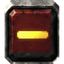
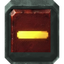
Launcher: the PLAY button's grey metal frame round the whole window (bevelled corners); window button frames in the same grey
Claude-Session: https://claude.ai/code/session_01HSNECvxDNiNKgLgdGLeXBj

Changed region(s): [[0.0625, 0.0, 0.9375, 1.0], [0.0625, 0.8125, 0.0938, 0.9062]]

diff --git a/launcher/ui/stone.css b/launcher/ui/stone.css
@@ -59,3 +59,14 @@
 }
 .side-foot { border-top: 1px solid rgba(0, 0, 0, 0.6); box-shadow: 0 -1px 0 rgba(255, 255, 255, 0.05); }
 .side .nav, .side .realm-row, .side .side-label { text-shadow: 0 1px 1px rgba(0, 0, 0, 0.6); }
+/* owner 2026-10-31 21:51: "give whole client this grey color border bordering our play button": the PLAY button's
+   own grey metal frame (art/window-frame.webp, its red face cut away) as a thin edge round the whole window, over
+   everything but the window buttons, which sit on the corner like an in-game window's close button. */
+.frame::after {
+  content: ""; position: fixed; inset: 0; z-index: 9000; pointer-events: none;
+  /* 10px: thick enough that the frame's bevelled corners read like an in-game window's (owner 21:53: "with this
+     style of edge around launcher its fine, no need for strict roundedness") */
+  border: 10px solid transparent;
+  border-image: url("art/window-frame.webp") 22 25 / 10px stretch;
+}
+.titlebar .winbtns, .winbtns { position: relative; z-index: 9001 !important; }
